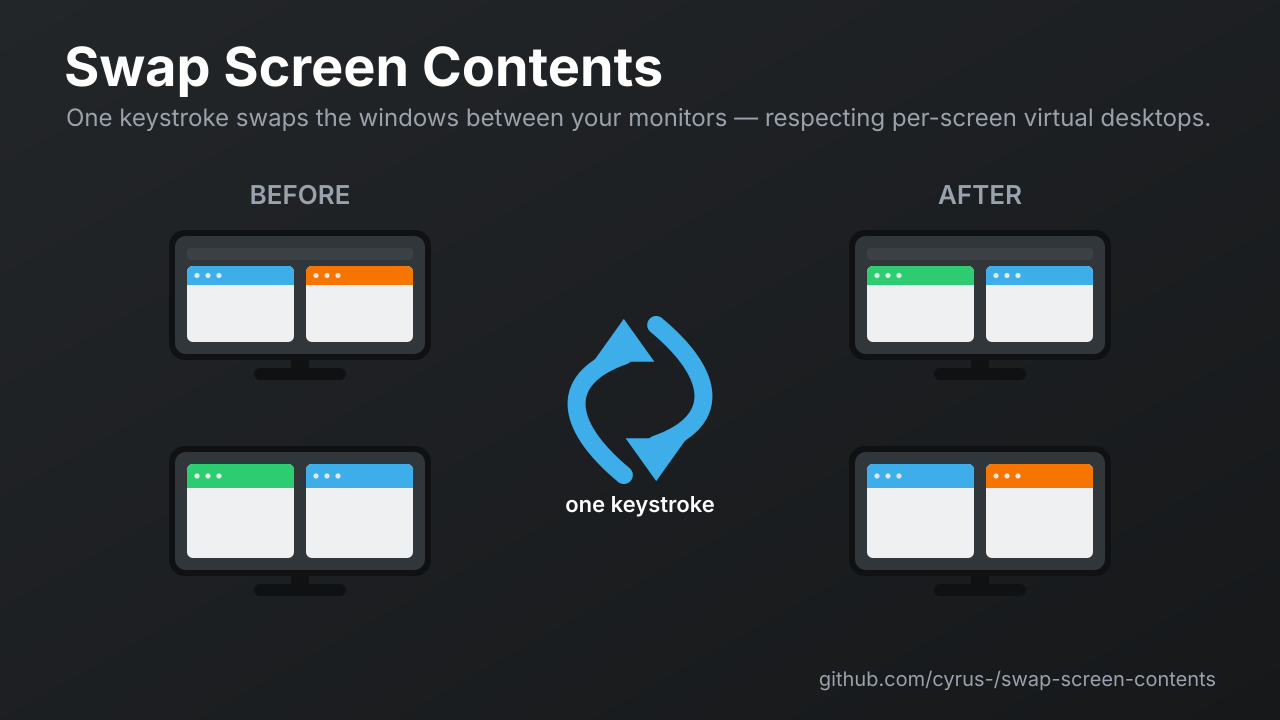
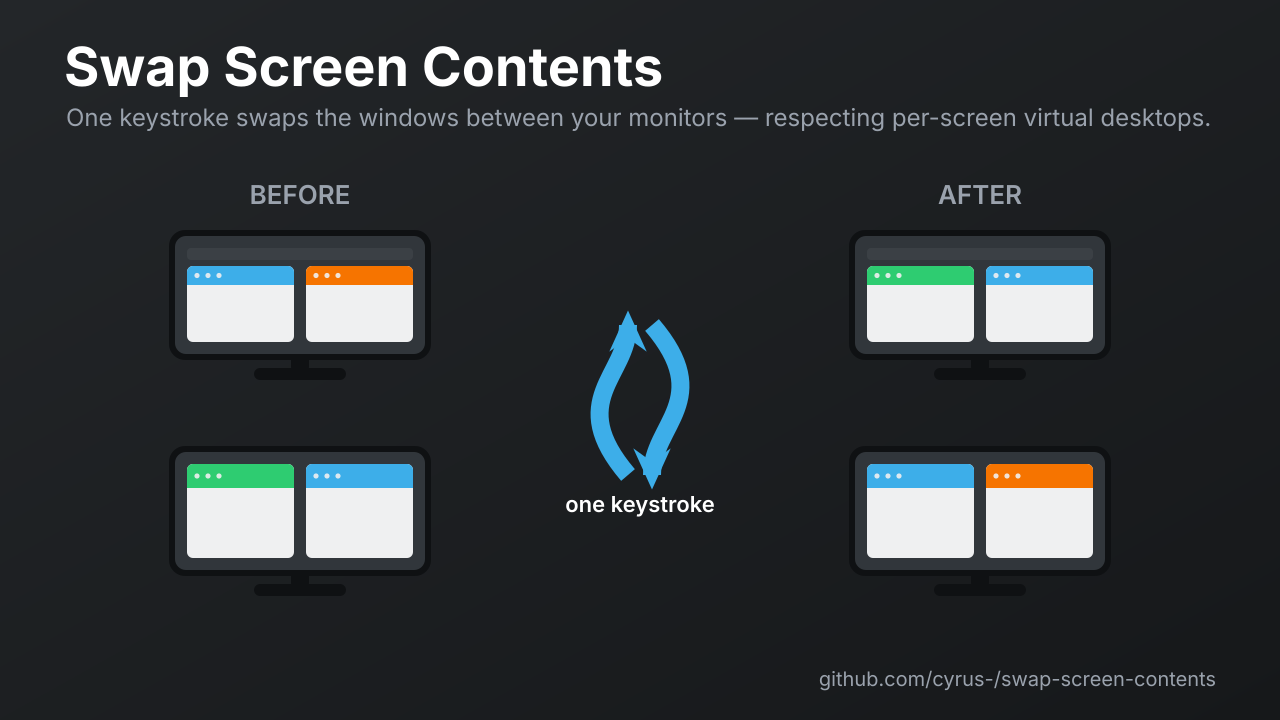
assets: rework swap arrows (marker-based heads, vertical-arrival curves)
Arrowheads are now SVG markers with orient=auto so they align to the curve
tangents; beziers arrive vertically at each tip so heads point cleanly up/down.
Adds the generator (gen_art.py) for reproducibility.

Claude-Session: https://claude.ai/code/session_01D3KXFoEJvhF367TAewReJ2

Changed region(s): [[0.4375, 0.4278, 0.5625, 0.6722]]

diff --git a/assets/gen_art.py b/assets/gen_art.py
@@ -1,0 +1,129 @@
+#!/usr/bin/env python3
+# Generate SVG art for the "Swap Screen Contents" KDE Store listing.
+import os
+
+OUT = os.path.expanduser("~/Drive/projects/swap-screen-contents/assets")
+os.makedirs(OUT, exist_ok=True)
+
+# Breeze-ish palette
+BG0, BG1 = "#232629", "#16181a"
+SCREEN = "#31363b"
+BEZEL  = "#0f1113"
+WIN    = "#eff0f1"
+BLUE   = "#3daee9"
+ORANGE = "#f67400"
+GREEN  = "#2ecc71"
+TEXT   = "#ffffff"
+MUTED  = "#9aa2ad"
+ARROW  = "#3daee9"
+
+def rrect(x, y, w, h, r, fill, stroke=None, sw=0, extra=""):
+    s = f'<rect x="{x}" y="{y}" width="{w}" height="{h}" rx="{r}" ry="{r}" fill="{fill}"'
+    if stroke: s += f' stroke="{stroke}" stroke-width="{sw}"'
+    return s + f' {extra}/>'
+
+def window(x, y, w, h, accent):
+    """A little window: light body + colored title bar + 3 dots."""
+    r = 6
+    tb = max(12, int(h*0.26))
+    parts = [rrect(x, y, w, h, r, WIN)]
+    # title bar (rounded top only -> draw full rrect accent then body over lower part)
+    parts.append(f'<path d="M{x+r},{y} h{w-2*r} a{r},{r} 0 0 1 {r},{r} v{tb-r} h{-w} v{-(tb-r)} a{r},{r} 0 0 1 {r},{-r} z" fill="{accent}"/>')
+    # dots
+    cy = y + tb/2
+    for i in range(3):
+        parts.append(f'<circle cx="{x+10+i*11}" cy="{cy:.1f}" r="2.6" fill="{WIN}" opacity="0.9"/>')
+    return "".join(parts)
+
+def monitor(cx, top, sw, sh, accents, panel=False):
+    """Screen (centered at cx, top edge=top) + neck + base. accents = list of window colors."""
+    sx = cx - sw/2
+    parts = [rrect(sx-6, top-6, sw+12, sh+12, 16, BEZEL)]      # bezel
+    parts.append(rrect(sx, top, sw, sh, 11, SCREEN))
+    pad = 12
+    iy = top + pad
+    ih = sh - 2*pad
+    if panel:  # thin taskbar strip at top of the screen -> reduces usable height
+        parts.append(rrect(sx+pad, top+pad, sw-2*pad, 12, 4, "#3b4045"))
+        iy += 18; ih -= 18
+    n = len(accents)
+    gap = 12
+    ww = (sw - 2*pad - (n-1)*gap) / n
+    for i, a in enumerate(accents):
+        wx = sx + pad + i*(ww+gap)
+        parts.append(window(wx, iy, ww, ih, a))
+    # neck + base
+    ncx = cx
+    parts.append(rrect(ncx-9, top+sh, 18, 16, 3, BEZEL))
+    parts.append(rrect(ncx-46, top+sh+14, 92, 12, 6, BEZEL))
+    return "".join(parts)
+
+def swap_arrows(cx, cy, span, thick, color, mid, bow):
+    """Two curved arrows forming a vertical exchange, centered at (cx,cy).
+    Each bezier arrives vertically at its tip; arrowheads are SVG markers with
+    orient=auto so they always align to the curve. mid = half-gap between the two
+    vertical tips; bow = how far each arrow arches outward."""
+    top = cy - span/2
+    bot = cy + span/2
+    x1 = cx - mid        # up-arrow tip column (left)
+    x2 = cx + mid        # down-arrow tip column (right)
+    d = span * 0.34      # control offset that forces a vertical tangent at the tip
+    mw = thick * 2.6     # arrowhead size (user units)
+    mkid = "ah" + color.lstrip('#')
+    marker = (f'<defs><marker id="{mkid}" markerUnits="userSpaceOnUse" '
+              f'markerWidth="{mw}" markerHeight="{mw}" viewBox="0 0 10 10" refX="6.2" refY="5" '
+              f'orient="auto"><path d="M0.5,1 L9.3,5 L0.5,9 L3.4,5 Z" fill="{color}"/></marker></defs>')
+    # up arrow: bottom -> top, bows left, tangent vertical at the top tip
+    up = (f'<path d="M{x1},{bot} C{x1-bow},{cy} {x1},{top+d} {x1},{top}" '
+          f'fill="none" stroke="{color}" stroke-width="{thick}" stroke-linecap="butt" '
+          f'marker-end="url(#{mkid})"/>')
+    # down arrow: top -> bottom, bows right, tangent vertical at the bottom tip
+    dn = (f'<path d="M{x2},{top} C{x2+bow},{cy} {x2},{bot-d} {x2},{bot}" '
+          f'fill="none" stroke="{color}" stroke-width="{thick}" stroke-linecap="butt" '
+          f'marker-end="url(#{mkid})"/>')
+    return marker + up + dn
+
+# ---------- LOGO 512x512 ----------
+def logo():
+    W = 512
+    body = []
+    body.append(f'''<defs>
+      <linearGradient id="bg" x1="0" y1="0" x2="0" y2="1">
+        <stop offset="0" stop-color="{BG0}"/><stop offset="1" stop-color="{BG1}"/>
+      </linearGradient></defs>''')
+    body.append(rrect(0, 0, W, W, 112, "url(#bg)"))
+    body.append(monitor(256, 92, 300, 104, [BLUE, ORANGE]))
+    body.append(monitor(256, 320, 300, 104, [ORANGE, BLUE]))
+    body.append(swap_arrows(256, 268, span=96, thick=15, color=WIN, mid=9, bow=44))
+    svg = f'<svg xmlns="http://www.w3.org/2000/svg" width="{W}" height="{W}" viewBox="0 0 {W} {W}">' + "".join(body) + '</svg>'
+    open(f"{OUT}/logo.svg", "w").write(svg)
+
+# ---------- GALLERY 1280x720 ----------
+def gallery():
+    W, H = 1280, 720
+    b = []
+    b.append(f'''<defs>
+      <linearGradient id="bg" x1="0" y1="0" x2="1" y2="1">
+        <stop offset="0" stop-color="{BG0}"/><stop offset="1" stop-color="{BG1}"/>
+      </linearGradient></defs>''')
+    b.append(f'<rect width="{W}" height="{H}" fill="url(#bg)"/>')
+    b.append(f'<text x="64" y="86" font-family="Inter" font-weight="700" font-size="54" fill="{TEXT}">Swap Screen Contents</text>')
+    b.append(f'<text x="66" y="126" font-family="Inter" font-weight="400" font-size="24" fill="{MUTED}">One keystroke swaps the windows between your monitors — respecting per-screen virtual desktops.</text>')
+
+    def group(cx, label, top_acc, bot_acc):
+        g = [f'<text x="{cx}" y="204" font-family="Inter" font-weight="600" font-size="26" fill="{MUTED}" text-anchor="middle">{label}</text>']
+        g.append(monitor(cx, 236, 250, 118, top_acc, panel=True))
+        g.append(monitor(cx, 452, 250, 118, bot_acc))
+        return "".join(g)
+
+    b.append(group(300, "BEFORE", [BLUE, ORANGE], [GREEN, BLUE]))
+    b.append(group(980, "AFTER",  [GREEN, BLUE], [BLUE, ORANGE]))
+    # center swap glyph + caption
+    b.append(swap_arrows(640, 400, span=150, thick=18, color=ARROW, mid=12, bow=64))
+    b.append(f'<text x="640" y="512" font-family="Inter" font-weight="600" font-size="22" fill="{TEXT}" text-anchor="middle">one keystroke</text>')
+    b.append(f'<text x="{W-64}" y="{H-34}" font-family="Inter" font-weight="400" font-size="20" fill="{MUTED}" text-anchor="end">github.com/cyrus-/swap-screen-contents</text>')
+    svg = f'<svg xmlns="http://www.w3.org/2000/svg" width="{W}" height="{H}" viewBox="0 0 {W} {H}">' + "".join(b) + '</svg>'
+    open(f"{OUT}/gallery.svg", "w").write(svg)
+
+logo(); gallery()
+print("wrote", OUT)